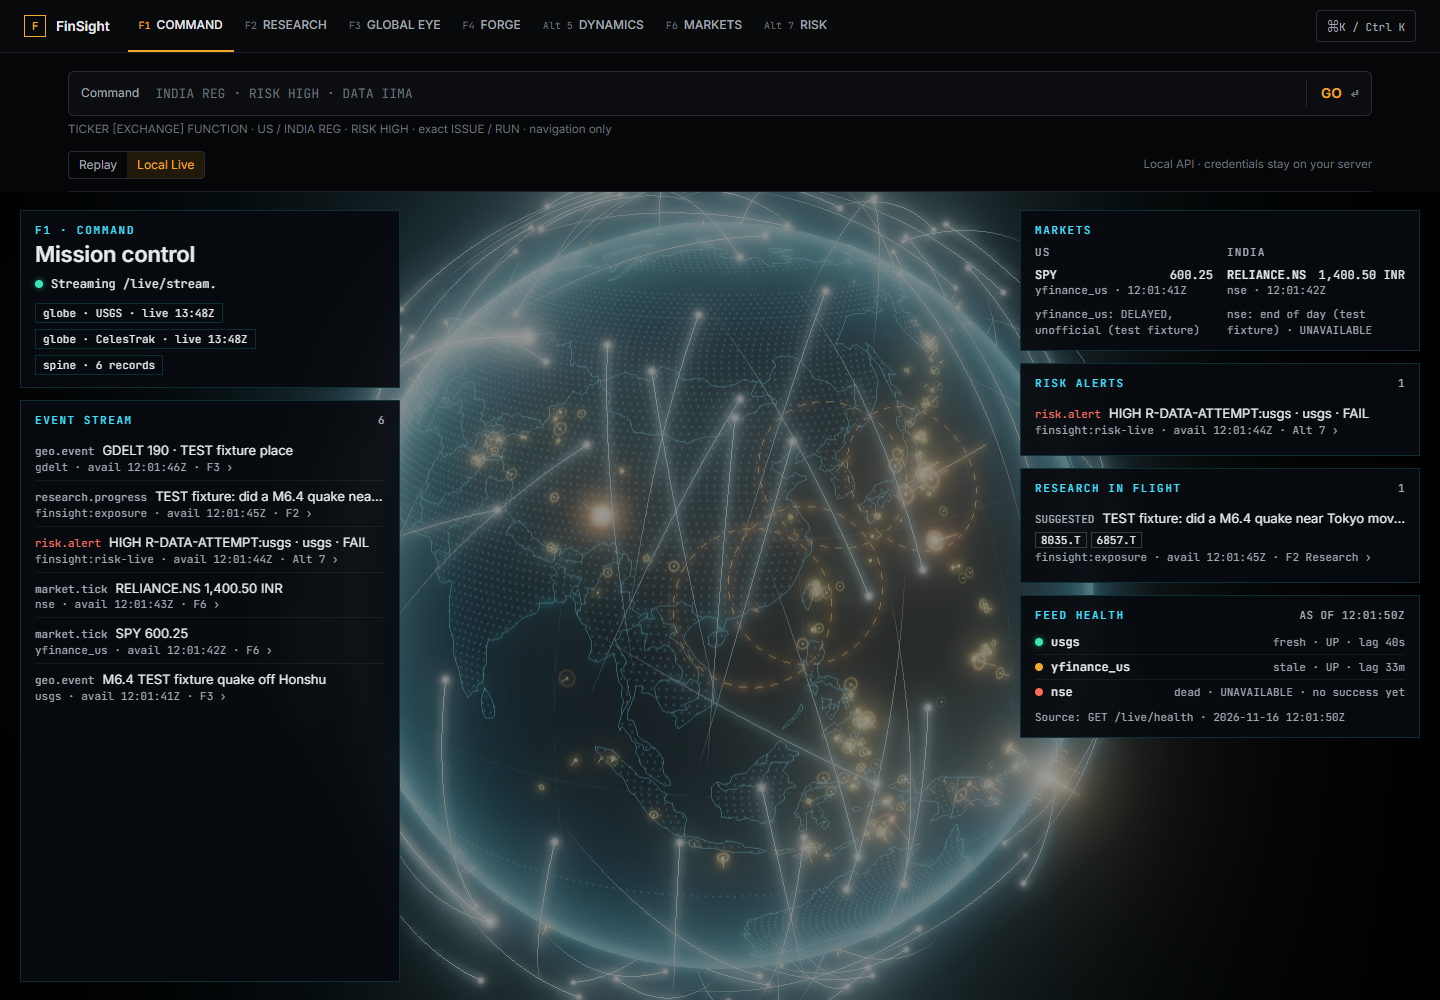
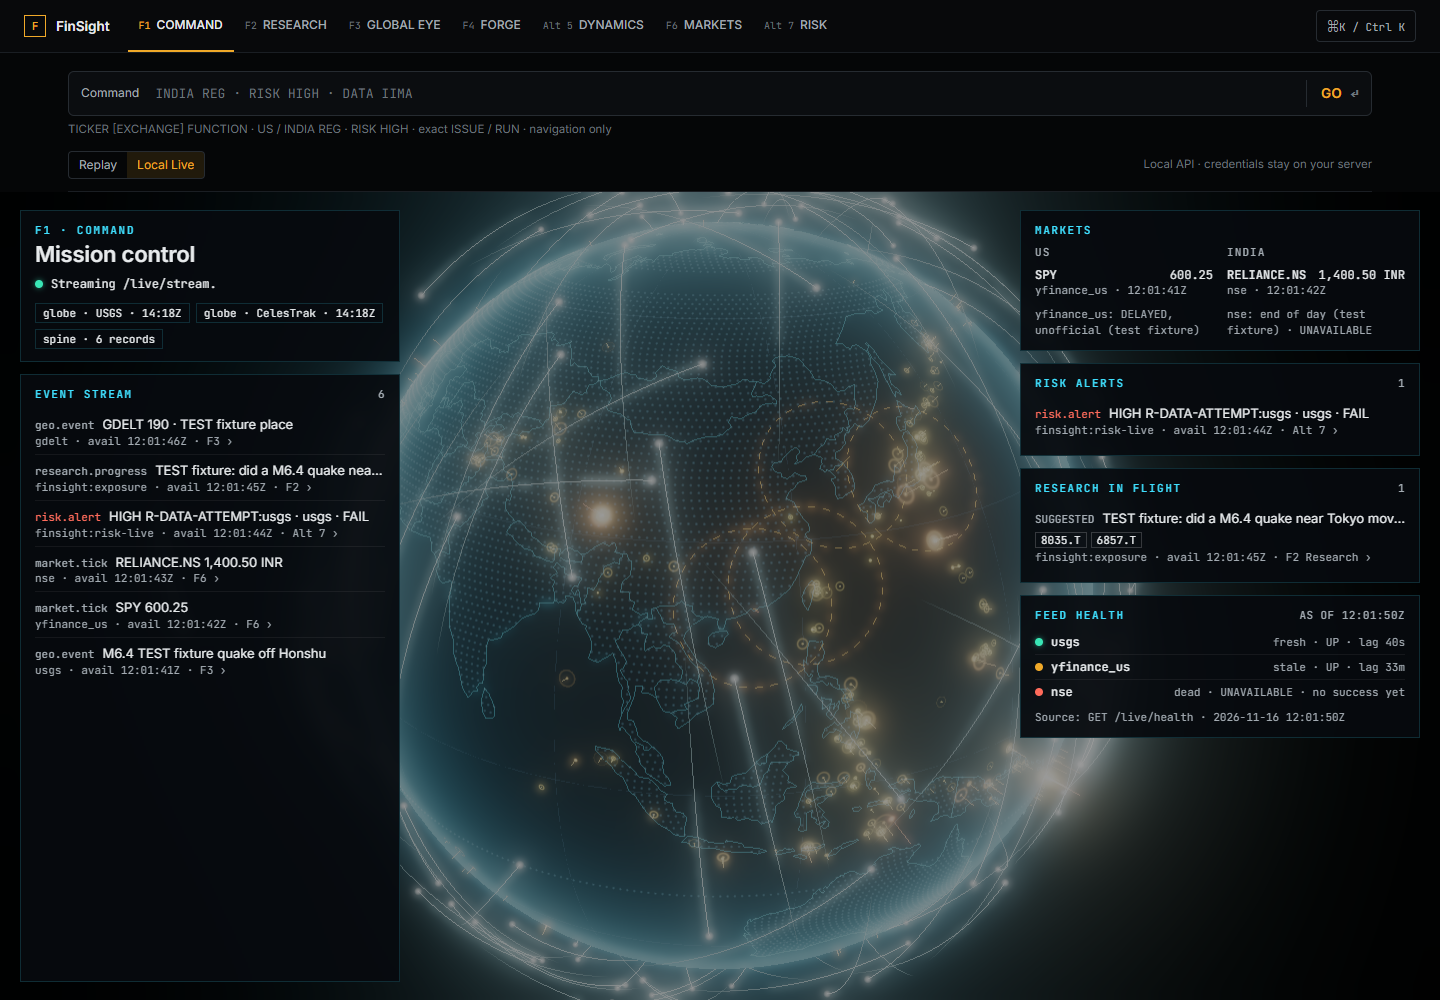
fix(command): ignore answers from before the spine went down; page from a local cursor
Second review round on #39:
- One health check at a time, and a new stream closes any old one: a slow connect cannot leak a second EventSource.
- down() bumps a generation; health, backlog and poll answers sent before it are ignored.
- Paging advances its own cursor from each page's last_seq, so a stream frame landing mid-page cannot skip rows.
- While polling, each passing health check retries the stream; polling stops once it opens.
- ?q: control characters become spaces; the 400 limit counts code points.
- Globe feed chips drop the word 'live'; the stream panel fills the column only while streaming.

diff --git a/frontend-v2/src/command/live.ts b/frontend-v2/src/command/live.ts
@@ -99,6 +99,8 @@ export function useLiveSpine(enabled: boolean, allowed: boolean) {
     let source: EventSource | null = null;
     let poll: ReturnType<typeof setInterval> | null = null;
     let up = false;
+    // Bumped by down(): an answer to a request sent before the spine went down is ignored.
+    let gen = 0;
     // A feed.health record older than the latest /live/health snapshot must not overwrite it.
     let snapshotMs = -Infinity;
     const accept = (raw: unknown[]) => {
@@ -130,6 +132,7 @@ export function useLiveSpine(enabled: boolean, allowed: boolean) {
     // The spine is gone (or refuses us): say why and drop everything it had shown.
     const down = (error: unknown) => {
       if (signal.aborted) return;
+      gen++;
       disconnect();
       last.current = -1;
       snapshotMs = -Infinity;
@@ -143,7 +146,9 @@ export function useLiveSpine(enabled: boolean, allowed: boolean) {
       );
     };
     const readHealth = async () => {
+      const g = gen;
       const body = await get("/live/health", signal);
+      if (g !== gen) return;
       if (isObject(body) && body.mode === "NOT_RUNNING")
         throw new SpineError(
           { kind: "not-running", detail: text(body.reason) ?? "NOT_RUNNING" },
@@ -154,13 +159,22 @@ export function useLiveSpine(enabled: boolean, allowed: boolean) {
       setFeeds(parseFeeds(body));
       setHealthAt(at);
     };
-    // Without a seq: the newest PAGE records. After one: page forward until a short page.
+    // Without a seq: the newest PAGE records. After one: page forward until a short page. The
+    // cursor is this call's own (from each page's last_seq), so a stream frame that lands while a
+    // page is in flight cannot make the next page skip rows.
     const recent = async () => {
+      const g = gen;
+      let cursor = last.current;
       for (let page = 0; page < MAX_PAGES; page++) {
-        const since = last.current >= 0 ? `&since=${last.current}` : "";
+        const since = cursor >= 0 ? `&since=${cursor}` : "";
         const body = await get(`/live/recent?limit=${PAGE}${since}`, signal);
+        if (g !== gen) return;
         const rows = isObject(body) && Array.isArray(body.events) ? body.events : [];
         accept(rows);
+        const seqs = rows.map((r) => (isObject(r) ? r.seq : null));
+        const lastSeq = isObject(body) ? body.last_seq : null;
+        for (const s of [lastSeq, ...seqs])
+          if (typeof s === "number" && Number.isSafeInteger(s)) cursor = Math.max(cursor, s);
         if (!since || rows.length < PAGE) return;
       }
     };
@@ -168,8 +182,9 @@ export function useLiveSpine(enabled: boolean, allowed: boolean) {
       source?.close();
       source = null;
       // Polling is claimed only once a poll has answered.
+      const g = gen;
       void recent().then(() => {
-        if (signal.aborted || !up) return;
+        if (signal.aborted || !up || g !== gen) return;
         setState({ kind: "polling", detail });
         if (!poll) poll = setInterval(() => void recent().catch(down), POLL_MS);
       }, down);
@@ -180,8 +195,13 @@ export function useLiveSpine(enabled: boolean, allowed: boolean) {
         return;
       }
       const since = last.current >= 0 ? `?since_seq=${last.current}` : "";
+      source?.close();
       source = new EventSource(`${API_BASE}/live/stream${since}`, { withCredentials: true });
-      source.onopen = () => setState({ kind: "streaming" });
+      source.onopen = () => {
+        if (poll) clearInterval(poll);
+        poll = null;
+        setState({ kind: "streaming" });
+      };
       const onFrame = (message: MessageEvent<string>) => {
         try {
           accept([JSON.parse(message.data)]);
@@ -204,12 +224,22 @@ export function useLiveSpine(enabled: boolean, allowed: boolean) {
       up = true;
       openStream();
     };
+    // One check at a time: a slow connect must not overlap the next tick and open a second stream.
+    let busy = false;
     const check = async () => {
+      if (busy) return;
+      busy = true;
       try {
-        if (up) await readHealth();
-        else await connect();
+        if (!up) await connect();
+        else {
+          await readHealth();
+          // Polling after the stream closed: try the stream again; polling continues until it opens.
+          if (up && !source && poll) openStream();
+        }
       } catch (error) {
         down(error);
+      } finally {
+        busy = false;
       }
     };
     setState({ kind: "connecting" });

diff --git a/frontend-v2/src/routes/research.tsx b/frontend-v2/src/routes/research.tsx
@@ -12,10 +12,9 @@ export const Route = createFileRoute("/research")({
     // A question suggested elsewhere (F1 Command) travels as ?q=; it is shown, never run.
     const q =
       typeof search.q === "string"
-        ? search.q
-            .replace(/[^\P{C}]/gu, "")
-            .trim()
-            .slice(0, 400)
+        ? Array.from(search.q.replace(/[^\P{C}]+/gu, " ").trim())
+            .slice(0, 400) // by code point, so no lone surrogate is left
+            .join("")
         : "";
     return {
       look: isLook(search.look) ? search.look : DEFAULT_LOOK,

diff --git a/frontend-v2/src/command/CommandCenter.tsx b/frontend-v2/src/command/CommandCenter.tsx
@@ -191,9 +191,7 @@ export function CommandCenter() {
   const feedChip = (f: Feed<unknown>, label: string) => (
     <span className={`cmd-chip ${f.status}`} title={f.note ?? undefined}>
       globe · {label} ·{" "}
-      {f.status === "live" && f.at
-        ? `live ${new Date(f.at).toISOString().slice(11, 16)}Z`
-        : f.status}
+      {f.status === "live" && f.at ? `${new Date(f.at).toISOString().slice(11, 16)}Z` : f.status}
     </span>
   );
 

diff --git a/frontend-v2/src/command/command.css b/frontend-v2/src/command/command.css
@@ -59,7 +59,10 @@
   background: var(--cmd-panel);
   backdrop-filter: blur(6px);
 }
-.cmd-left .cmd-panel:last-child {
+/* The stream fills the column only while there is a stream to show. */
+.cmd:is([data-spine="streaming"], [data-spine="polling"], [data-spine="reconnecting"])
+  .cmd-left
+  .cmd-panel:last-child {
   flex: 1;
   min-height: 0;
   display: flex;
